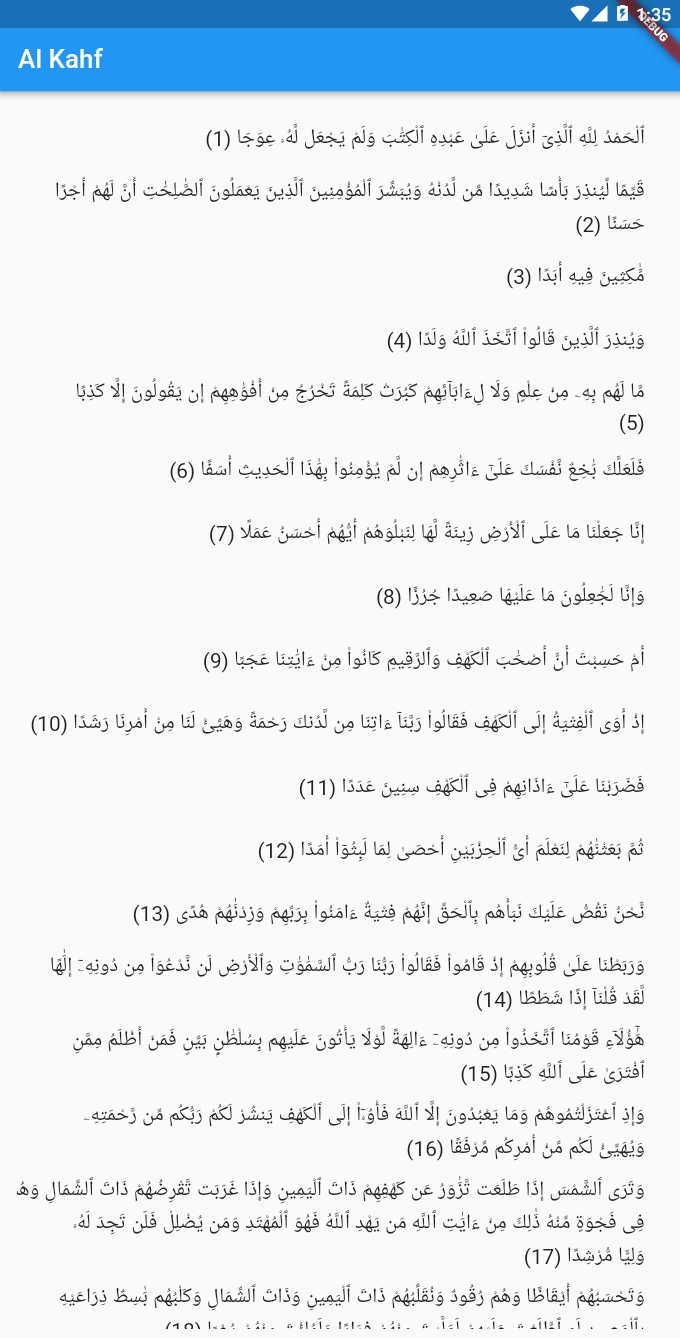
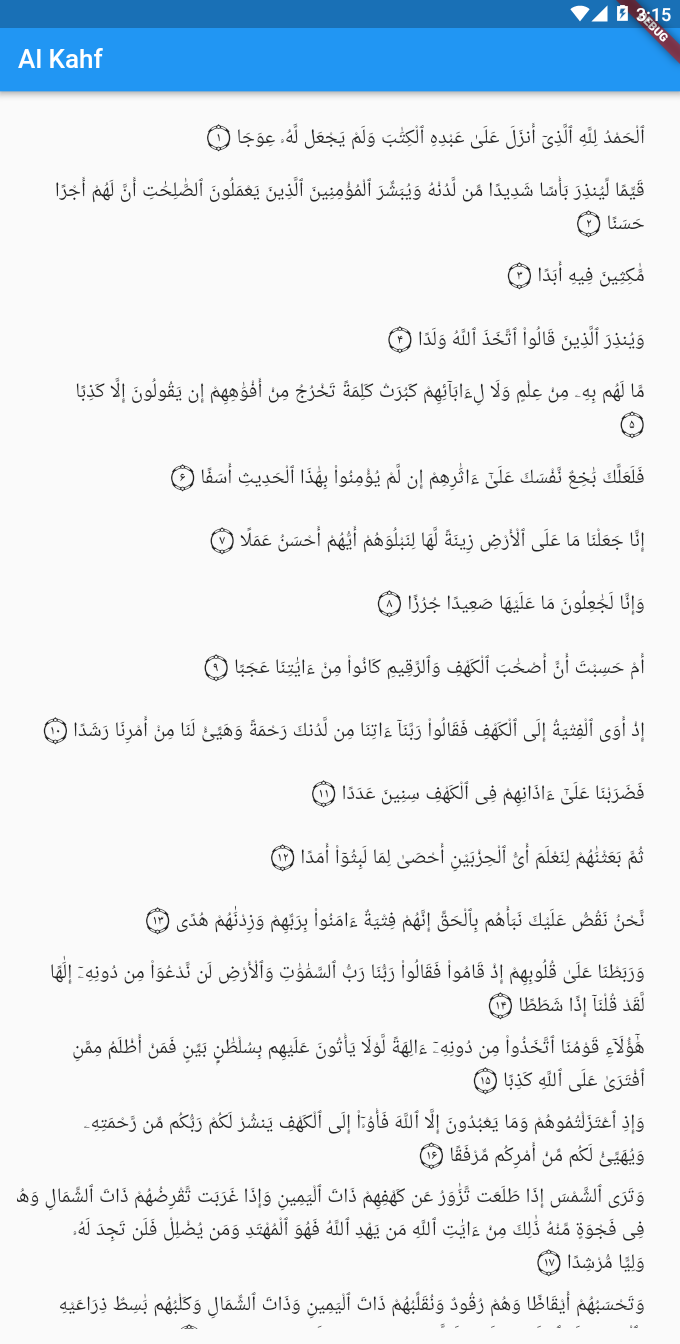
1.0.2

diff --git a/lib/quran.dart b/lib/quran.dart
@@ -1,5 +1,7 @@
 library quran;
 
+import 'package:flutter/cupertino.dart';
+
 var _quranText = [
   {
     "surah_number": 1,
@@ -35778,8 +35780,8 @@ int getVerseCount(int surahNumber) {
   return _surah[surahNumber - 1]['aya'];
 }
 
-///Takes [surahNumber] & [verseNumber] and returns the verse in Arabic
-String getVerse(int surahNumber, int verseNumber) {
+///Takes [surahNumber], [verseNumber] & [verseEndSymbol] (optional) and returns the Verse in Arabic
+String getVerse(int surahNumber, int verseNumber, {bool verseEndSymbol = false}) {
   String verse = "";
   for (var i in _quranText) {
     if (i['surah_number'] == surahNumber && i['verse_number'] == verseNumber) {
@@ -35792,7 +35794,7 @@ String getVerse(int surahNumber, int verseNumber) {
     throw "No verse found with given surahNumber and verseNumber.\n\n";
   }
 
-  return verse;
+  return verse + (verseEndSymbol ? getVerseEndSymbol(verseNumber) : "");
 }
 
 ///Reurns total juz count
@@ -35828,4 +35830,48 @@ String getSurahURL(int surahNumber) {
 ///Takes [surahNumber] & [verseNumber] and returns Verse URL (from Quran.com)
 String getVerseURL(int surahNumber, int verseNumber) {
   return "https://quran.com/$surahNumber/$verseNumber";
+}
+
+///Takes [verseNumber] and returns '' symbol with verse number
+String getVerseEndSymbol(int verseNumber){
+  String arabicNumeric = " ";
+
+  for(int i = verseNumber.toString().length - 1; i >= 0; i--){
+    String digit = verseNumber.toString().split("")[i]; 
+    if(digit == "0"){
+      arabicNumeric += "٠";
+    }
+    else if(digit == "1"){
+      arabicNumeric += "۱";
+    }
+    else if(digit == "2"){
+      arabicNumeric += "۲";
+    }
+    else if(digit == "3"){
+      arabicNumeric += "۳";
+    }
+    else if(digit == "4"){
+      arabicNumeric += "۴";
+    }
+    else if(digit == "5"){
+      arabicNumeric += "۵";
+    }
+    else if(digit == "6"){
+      arabicNumeric += "۶";
+    }
+    else if(digit == "7"){
+      arabicNumeric += "۷";
+    }
+    else if(digit == "8"){
+      arabicNumeric += "۸";
+    }
+    else if(digit == "9"){
+      arabicNumeric += "۹";
+    }
+  }
+
+  arabicNumeric += "\u06dd";
+
+  return arabicNumeric;
+
 }

diff --git a/example/lib/main.dart b/example/lib/main.dart
@@ -8,23 +8,23 @@ void main() {
         title: Text("Quran Demo"),
       ),
       body: SafeArea(
-        child: Column(
-          crossAxisAlignment: CrossAxisAlignment.start,
-          children: [
-            Text("Surah: ${quran.getSurahName(1)}"),
-            Text("English title: ${quran.getSurahNameEnglish(1)}"),
-            Text("Aya: ${quran.getAyaCount(1)}"),
-            Text("Place of Revelation: ${quran.getPlaceOfRevelation(1)}"),
-            Text("Verses: "),
-            Expanded(
-              child: ListView.builder(
-                itemCount: quran.getAyaCount(1),
-                itemBuilder: (context, index) {
-                  return Text("${index+1}. ${quran.getVerse(1, index + 1)}");
-                },
-              ),
-            ),
-          ],
+        child: Padding(
+          padding: EdgeInsets.all(15.0),
+          child: Column(
+            crossAxisAlignment: CrossAxisAlignment.start,
+            children: [
+              Text("Juz Number: \n" + quran.getJuzNumber(18, 1).toString()),
+              Text("\nJuz URL: \n" + quran.getJuzURL(15)),
+              Text("\nSurah and Verses in Juz 15: \n" + quran.getSurahAndVersesFromJuz(15).toString()),
+              Text("\nSurah Name: \n" + quran.getSurahName(18)),
+              Text("\nSurah Name (English): \n" + quran.getSurahNameEnglish(18)),
+              Text("\nSurah URL: \n" + quran.getSurahURL(18)),
+              Text("\nTotal Verses: \n" + quran.getVerseCount(18).toString()),
+              Text("\nPlace of Revelation: \n" + quran.getPlaceOfRevelation(18)),
+              Text("\nBasmala: \n" + quran.getBasmala()),
+              Text("\nVerse 1: \n" + quran.getVerse(18, 1))
+            ],
+          ),
         ),
       ),
     ),

diff --git a/README.md b/README.md
@@ -12,11 +12,12 @@ To use this plugin, add `quran` as a [dependency in your pubspec.yaml file](http
 * **`getSurahNameEnglish(int surahNumber)`** - Takes [surahNumber] returns the Surah name in English
 * **`getPlaceOfRevelation(int surahNumber)`** - Takes [surahNumber] and returns the Place of Revelation (Makkah / Madinah) of the Surah
 * **`getVerseCount(int surahNumber)`** - Takes [surahNumber] and returns the count of total Verses in the Surah
-* **`getVerse(int surahNumber, int verseNumber)`** - Takes [surahNumber] & [verseNumber] and returns the Verse in Arabic
+* **`getVerse(int surahNumber, int verseNumber, {bool verseEndSymbol})`** - Takes [surahNumber], [verseNumber] & [verseEndSymbol] (optional) and returns the Verse in Arabic
 * **`getTotalJuzCount()`** - Returns total Juz count
 * **`getTotalSurahCount()`** - Returns total Surah count
 * **`getTotalVerseCount()`** - Returns total Verse count
 * **`getBasmala()`** - Returns 'بِسْمِ ٱللَّهِ ٱلرَّحْمَٰنِ ٱلرَّحِيمِ'
+* **`getVerseEndSymbol()`** - Takes [verseNumber] and returns '' symbol with verse number
 * **`getJuzURL(int juzNumber)`** - Takes [juzNumber] and returns Juz URL (from Quran.com)
 * **`getSurahURL(int surahNumber)`** - Takes [surahNumber] and returns Surah URL (from Quran.com)
 * **`getVerseURL(int surahNumber, int verseNumber)`** - Takes [surahNumber] & [verseNumber] and returns Verse URL (from Quran.com)
@@ -66,27 +67,30 @@ import 'package:flutter/material.dart';
 import 'package:quran/quran.dart' as quran;
 
 void main() {
-  runApp(MaterialApp(
-    home: Scaffold(
-      appBar: AppBar(
-        title: Text(quran.getSurahName(18)),
-      ),
-      body: SafeArea(
-        child: Padding(
-          padding: EdgeInsets.all(15.0),
-          child: ListView.builder(
-            itemCount: quran.getVerseCount(18),
-            itemBuilder: (context, index) {
-              return ListTile(
+  runApp(
+    MaterialApp(
+      home: Scaffold(
+        appBar: AppBar(
+          title: Text(quran.getSurahName(18)),
+        ),
+        body: SafeArea(
+          child: Padding(
+            padding: EdgeInsets.all(15.0),
+            child: ListView.builder(
+              itemCount: quran.getVerseCount(18),
+              itemBuilder: (context, index) {
+                return ListTile(
                   title: Text(
-                quran.getVerse(18, index + 1) + " (${index + 1})",
-                textAlign: TextAlign.right,
-              ));
-            },
+                    quran.getVerse(18, index + 1, verseEndSymbol: true),
+                    textAlign: TextAlign.right,
+                  ),
+                );
+              },
+            ),
           ),
         ),
       ),
     ),
-  ));
+  );
 }
 ```

diff --git a/CHANGELOG.md b/CHANGELOG.md
@@ -24,3 +24,8 @@
 * Get Juz Number
 * Get Juz URL
 * Get Surah and Verse numbers from Juz
+
+## [1.0.2] - Version 1.0.2
+
+* Get Verse end symbol '' with verse number
+* verseEndSymbol bool added in getVerse() function
